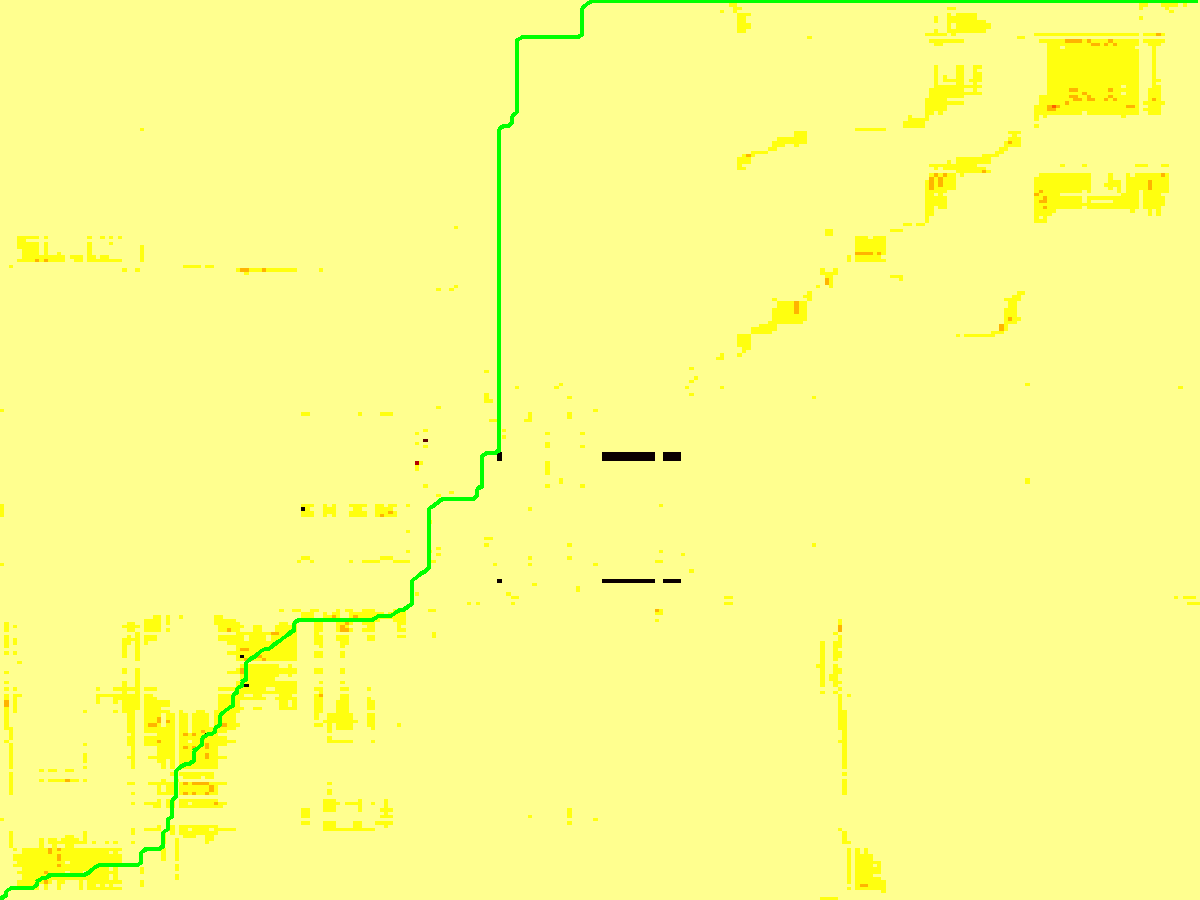
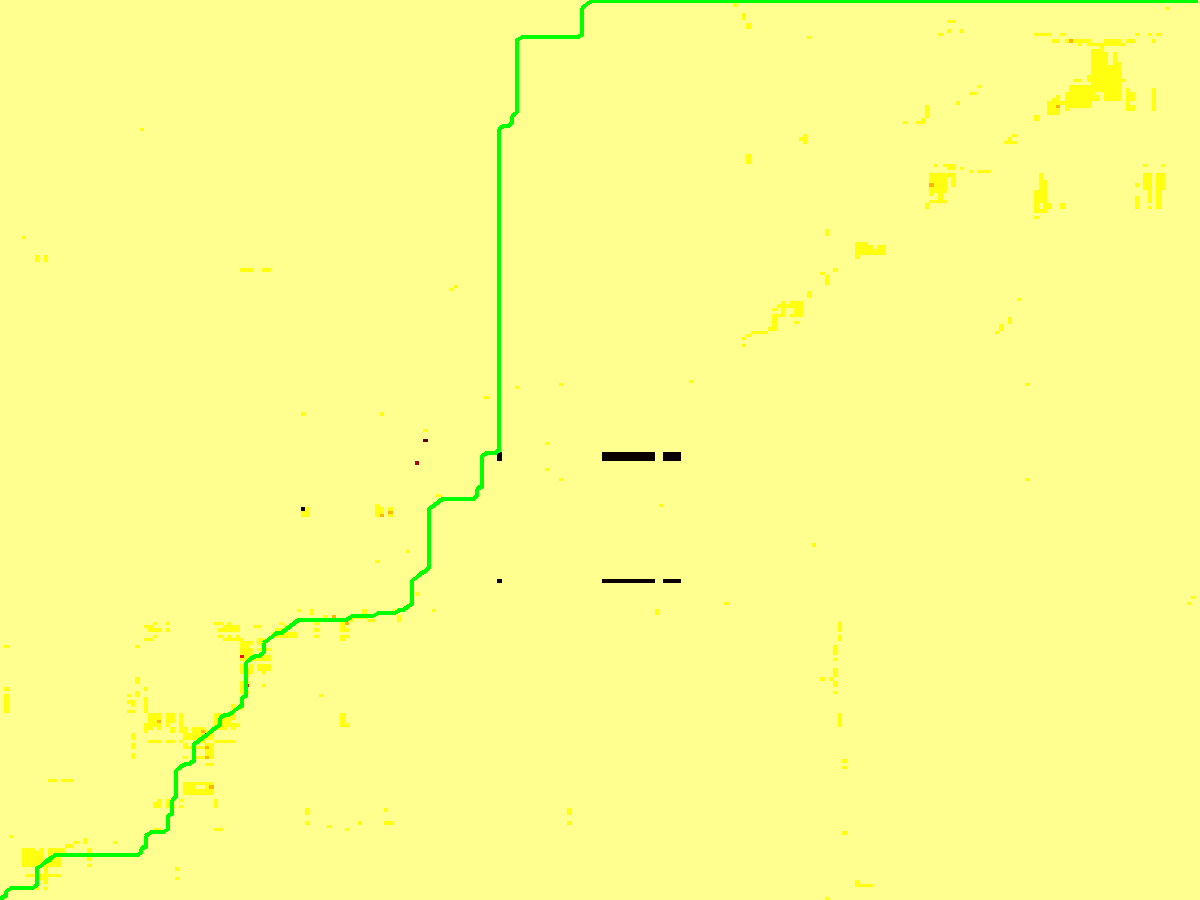
Results with alpha=1 everywhere

diff --git a/runBatsExperiment.m b/runBatsExperiment.m
@@ -25,11 +25,11 @@ switch typeDistanceTerrain
         distanceTerrain = matching.directionalDistanceTerrain(trajA,trajB,chosenNorm);
         experimentExtension = [experimentExtension, 'DirectionalDistance'];
     case 'dynamicInteraction'
-        alpha = 2;
+        alpha = 1;
         distanceTerrain = matching.dynamicInteractionTerrain(trajA,trajB,chosenNorm,alpha);
         experimentExtension = [experimentExtension, 'DynamicInteraction'];
     case 'dynamicDistance'
-        alpha = 2;
+        alpha = 1;
         distanceTerrain = matching.dynamicDistanceTerrain(trajA,trajB,chosenNorm,alpha);
         experimentExtension = [experimentExtension, 'DynamicDistance'];
     case 'heading'

diff --git a/runFrisbeeExperiment.m b/runFrisbeeExperiment.m
@@ -20,11 +20,11 @@ switch typeDistanceTerrain
         distanceTerrain = matching.directionalDistanceTerrain(trajA,trajB,chosenNorm);
         experimentExtension = [experimentExtension, 'DirectionalDistance'];
     case 'dynamicInteraction'
-        alpha = 2;
+        alpha = 1;
         distanceTerrain = matching.dynamicInteractionTerrain(trajA,trajB,chosenNorm,alpha);
         experimentExtension = [experimentExtension, 'DynamicInteraction'];
     case 'dynamicDistance'
-        alpha = 2;
+        alpha = 1;
         distanceTerrain = matching.dynamicDistanceTerrain(trajA,trajB,chosenNorm,alpha);
         experimentExtension = [experimentExtension, 'DynamicDistance'];
     case 'heading'
